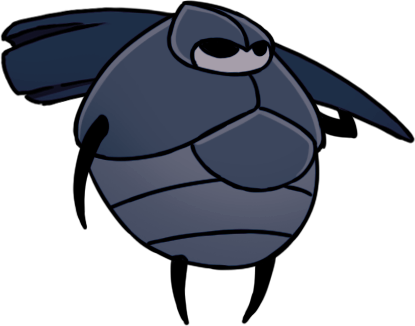
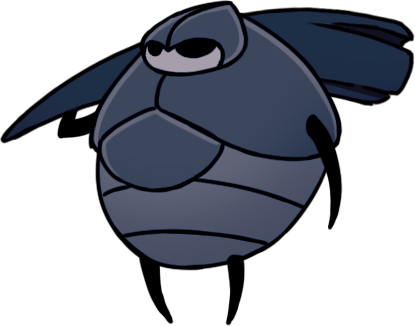
Enemy fixed

diff --git a/game.cpp b/game.cpp
@@ -232,8 +232,8 @@ Enemy::Enemy(float startX, float startY, float leftBound, float rightBound, floa
     // Load enemy sprite
     sf::Image fullImage;
     if (fullImage.loadFromFile("enemy.png")) {
-        // Extract enemy frame from sprite sheet (adjust rect as needed)
-        sf::IntRect frameRect(0, 0, 415, 326); // Adjust based on your enemy sprite sheet
+        // Use the larger frame rectangle you specified
+        sf::IntRect frameRect(0, 0, 415, 326);
         sf::Image frameImage;
         frameImage.create(frameRect.width, frameRect.height, sf::Color::Transparent);
         frameImage.copy(fullImage, 0, 0, frameRect, true);
@@ -241,11 +241,11 @@ Enemy::Enemy(float startX, float startY, float leftBound, float rightBound, floa
     }
 
     sprite.setTexture(texture);
-    sprite.setScale(0.35f, 0.35f);
+    sprite.setScale(0.35f, 0.35f); // Your scale
     sprite.setPosition(startX, startY);
     facingRight = true;
     
-    // Initialize physics
+    // Initialize physics - adjust these values for the smaller visual size
     vx = 0;
     vy = 0;
     gravity = 800.f;
@@ -257,20 +257,23 @@ void Enemy::update(float dt, sf::FloatRect platformBounds[])
     // Update attack cooldown
     updateAttackCooldown(dt);
     
-    // Check if player is in detection range (use stored playerPosition_)
+    // Check if player is in detection range
+    bool wasDetected = playerDetected_;
     playerDetected_ = isPlayerInRange(playerPosition_);
     
     if (playerDetected_) {
-        // Stop patrolling and face the player
+        // Stop patrolling
         isPatrolling_ = false;
         vx = 0;
         
-        // Face the player direction
+        // Continuously face the player based on current position
         if (playerPosition_.x < getPosition().x) {
+            // Player is to the left - face left
             facingRight = false;
-            sprite.setScale(-0.35f, 0.35f);
+            sprite.setScale(0.35f, 0.35f);
             sprite.setOrigin(0, 0);
         } else {
+            // Player is to the right - face right
             facingRight = true;
             sprite.setScale(-0.35f, 0.35f);
             sprite.setOrigin(sprite.getLocalBounds().width, 0);
@@ -281,9 +284,10 @@ void Enemy::update(float dt, sf::FloatRect platformBounds[])
             performMeleeAttack();
         }
     } else {
-        // Resume patrolling if player left detection range
-        if (!isPatrolling_) {
+        // Player left detection range - resume patrolling
+        if (wasDetected && !isPatrolling_) {
             isPatrolling_ = true;
+            // Keep the current facing direction for patrol
         }
         
         // Patrol movement
@@ -471,7 +475,7 @@ Game::Game()
       platform6("platform.png", 1255.f, 450.f),
       platform7("platform.png", 1530.f, 375.f),
       // Initialize enemy with: startX, startY, leftBound, rightBound, patrolSpeed, detectionRadius
-      enemy(800.f, 300.f, 600.f, 800.f, 100.f, 100.f),  // ADD THIS LINE
+    enemy(700.f, 200.f, 600.f, 800.f, 100.f, 50.f),  // Changed Y to 200 and increased detection radius,  // ADD THIS LINE
       healthBar(&player.health, player.maxHealth),
       soulBar(&player.soul)
 {
